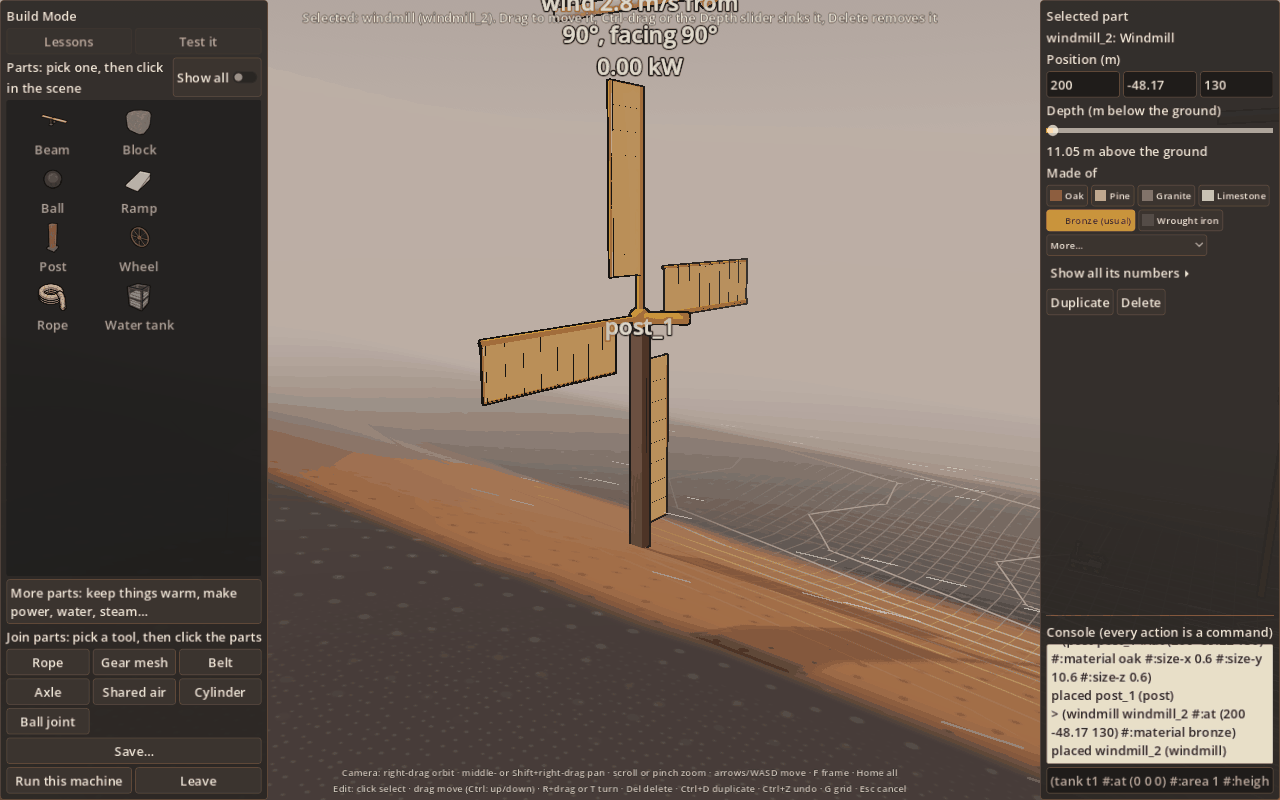
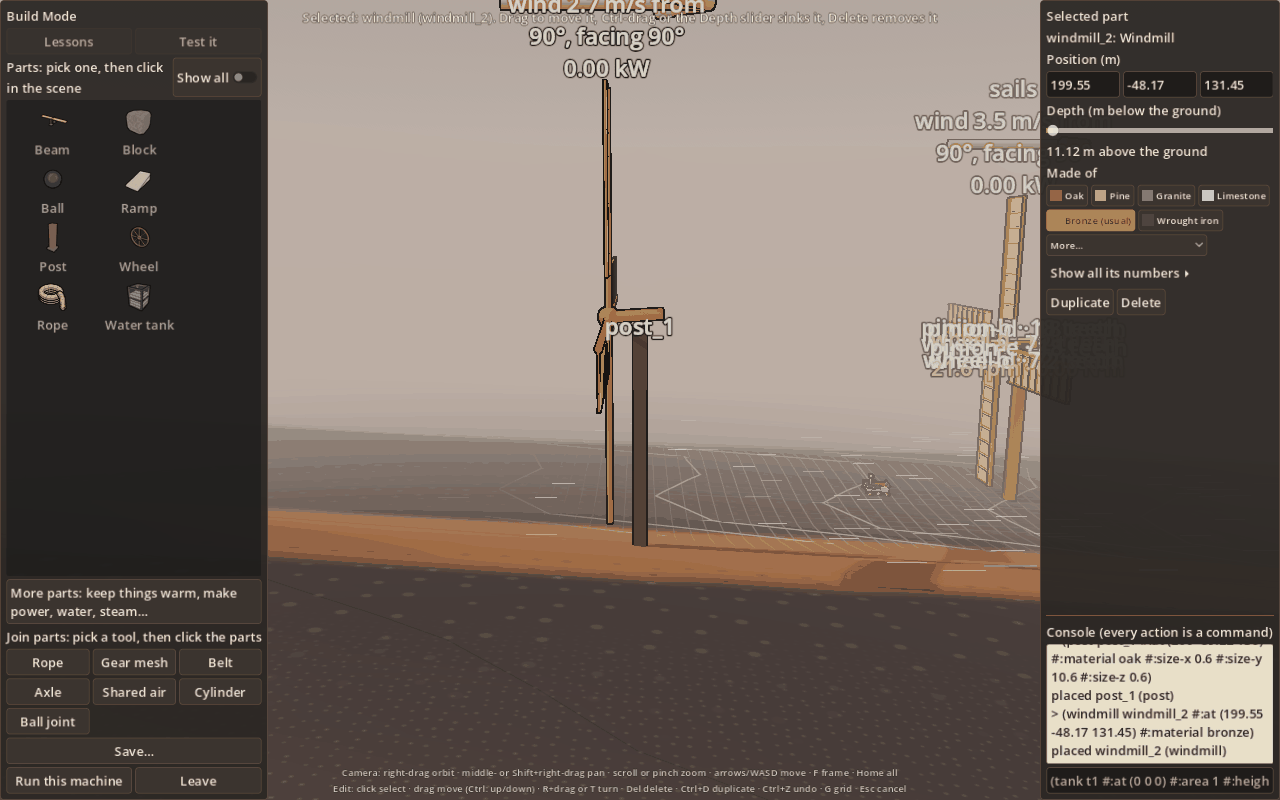
Building phase 1: the windmill on a post stands as the route's does, the post under its gear train 1.45 m behind the sails and 0.45 m aside (from the four 72:18 m5 stages), hub at the top + 0.45; the log says how far the sails' disc clears the post (1.03 m); Alt held while placing turns the snap off

diff --git a/game/scripts/BuildMode.cs b/game/scripts/BuildMode.cs
@@ -302,13 +302,13 @@ public partial class BuildMode : Node3D
                 _paletteDrag = true;
                 break;
             case InputEventMouseMotion motion when _paletteDrag && !_paletteList.GetGlobalRect().HasPoint(motion.Position):
-                MoveGhost(motion.Position);
+                MoveGhost(motion.Position, motion.AltPressed);
                 break;
             case InputEventMouseButton { ButtonIndex: MouseButton.Left, Pressed: false } up when _paletteDrag:
                 _paletteDrag = false;
                 if (_placingPaletteId is { } id && !OverPanel(up.Position))
                 {
-                    MoveGhost(up.Position);
+                    MoveGhost(up.Position, up.AltPressed);
                     PlaceGhost(id, up.ShiftPressed);
                     // not marked handled: the list took the press, so it must see the release too,
                     // or the GUI keeps sending it every mouse event as if the button were still down
@@ -423,11 +423,11 @@ public partial class BuildMode : Node3D
                 return ScriptedInput.Step.Next;
             case "wait-test":   // wait until no test is running or about to run (the lesson presses Test itself)
                 return Testing || _lessonAutoTestIn is not null ? ScriptedInput.Step.Again : ScriptedInput.Step.Next;
-            case "click-at":   // "click-at X Y Z": a click wherever that world point is drawn
-                ClickAt(ScriptPoint(w, 1));
+            case "click-at":   // "click-at X Y Z [alt]": a click wherever that world point is drawn (alt: Alt held, the snap off)
+                ClickAt(ScriptPoint(w, 1), alt: w.Length > 4 && w[4] == "alt");
                 return ScriptedInput.Step.Next;
-            case "hover-at":   // "hover-at X Y Z": the mouse moved to wherever that world point is drawn, no click (a placing ghost follows it)
-                _inputScript!.Mouse(GetViewport().GetScreenTransform() * _camera.UnprojectPosition(ScriptPoint(w, 1)));
+            case "hover-at":   // "hover-at X Y Z [alt]": the mouse moved to wherever that world point is drawn, no click (a placing ghost follows it)
+                _inputScript!.Mouse(GetViewport().GetScreenTransform() * _camera.UnprojectPosition(ScriptPoint(w, 1)), alt: w.Length > 4 && w[4] == "alt");
                 return ScriptedInput.Step.Next;
             case "palette-drag":   // "palette-drag ID X Y": press on the entry in the list, drag it out over the scene, let go at X Y
             {
@@ -505,14 +505,14 @@ public partial class BuildMode : Node3D
     }
 
     /// <summary>A scripted click on whatever is drawn at <paramref name="world"/>.</summary>
-    private void ClickAt(Vector3 world)
+    private void ClickAt(Vector3 world, bool alt = false)
     {
         // injected events are in window pixels; the camera projects to the
         // 3D viewport's, which the window's content scale stretches
         var at = GetViewport().GetScreenTransform() * _camera.UnprojectPosition(world);
-        _inputScript!.Mouse(at);
-        _inputScript.Mouse(at, MouseButton.Left, true);
-        _inputScript.Mouse(at, MouseButton.Left, false);
+        _inputScript!.Mouse(at, alt: alt);
+        _inputScript.Mouse(at, MouseButton.Left, true, alt: alt);
+        _inputScript.Mouse(at, MouseButton.Left, false, alt: alt);
     }
 
     // ------------------------------------------------------------------ UI
@@ -1332,7 +1332,7 @@ public partial class BuildMode : Node3D
             _orbit.Pan(mm.Relative);
             return;
         }
-        if (_placingPaletteId is not null) { MoveGhost(mm.Position); return; }
+        if (_placingPaletteId is not null) { MoveGhost(mm.Position, mm.AltPressed); return; }
         var hoverPort = PickPort(mm.Position);
         foreach (var p in _ports) p.Node.Scale = Vector3.One * (hoverPort is { } h && h.Part == p.Part && h.Port == p.Port ? 1.8f : 1f);
         if (_connectFrom is not null)
@@ -1866,18 +1866,19 @@ public partial class BuildMode : Node3D
         return null;
     }
 
-    private void MoveGhost(Vector2 screen)
+    private void MoveGhost(Vector2 screen, bool free = false)
     {
         if (_ghost is null) return;
         _ghostOnPost = null;
-        if (_placingKey == "windmill" && PostUnder(screen) is { } post)
+        if (_placingKey == "windmill" && !free && PostUnder(screen) is { } post)
         {
-            // the sails' ghost on a post (building plan, phase 1): its hub straight over the post's middle, the nave resting on the top. The
-            // grid's snap is skipped (this is the snap). The post holds nothing in the sim: the mill is not joined to it.
+            // the sails' ghost on a post (building plan, phase 1): the post under the windshaft behind the sails, where the route's train
+            // goes (HubOnPost), the hub at the post's top plus the nave's radius. The grid's snap is skipped (this is the snap); Alt places
+            // it freely. The post holds nothing in the sim: the mill is not joined to it.
             _ghostOnPost = post.Id;
             _ghost.Visible = true;
             _ghost.Position = HubOnPost(post);
-            _status.Text = $"Windmill on {post.Id}'s top: its hub {F(MachineView.WindmillHubRadius)} m above it (the nave rests on the post). Click to put it there, Esc cancels";
+            _status.Text = $"Windmill on {post.Id}: the post under its windshaft, {F(MillTrainSetback)} m behind the sails, the hub {F(MachineView.WindmillHubRadius)} m above its top. Click to put it there; Alt places it freely, Esc cancels";
             return;
         }
         if (!SurfacePoint(screen, null, out var p)) { _ghost.Visible = false; return; }
@@ -1894,15 +1895,60 @@ public partial class BuildMode : Node3D
         return nearest.Name is { } id && _session.Document.Parts.TryGetValue(id, out var part) && part.Kind == "post" ? part : null;
     }
 
-    /// <summary>Where a windmill's hub goes on a post: over its middle, the post's top (its #:at is its foot) plus the nave's radius.</summary>
-    private static Vector3 HubOnPost(PartSpec post) =>
-        new((float)post.At.X, (float)(post.At.Y + post.Number("size-y", 1)) + MachineView.WindmillHubRadius, (float)post.At.Z);
+    /// <summary>
+    /// Where a windmill's gear train goes, seen from its hub with the sails facing +z (the route's, solve.steps): four 72:18 stages of
+    /// module-5 gears, each pinion beside its wheel by m (72 + 18) / 2 = 0.225 m, so the train runs 4 x 0.225 = 0.9 m across (+x) and its
+    /// middle is 0.45 m to the side; the first wheel 1.3 m back down the windshaft, each stage 0.1 m further, so the train's middle is
+    /// 1.3 + 3 x 0.1 / 2 = 1.45 m behind the sails. A post set there carries the train and stands clear of the sails' disc.
+    /// </summary>
+    private const float MillTrainSide = 4 * 0.005f * (72 + 18) / 2 / 2, MillTrainSetback = 1.3f + 3 * 0.1f / 2;
+
+    /// <summary>
+    /// Where a windmill's hub goes on a post: the post under the middle of its train (<see cref="MillTrainSide"/>, <see cref="MillTrainSetback"/>),
+    /// turned with the sails' #:facing-deg (azimuth from +x toward +z, 90 = +z, #193), the hub at the post's top (its #:at is its foot) plus
+    /// the nave's radius. The route's post is at (0.45 0 -1.45) from its hub: the same.
+    /// </summary>
+    private Vector3 HubOnPost(PartSpec post)
+    {
+        var yaw = new Basis(Vector3.Up, Mathf.DegToRad(90 - GhostFacingDeg()));
+        var postFromHub = yaw * new Vector3(MillTrainSide, 0, -MillTrainSetback);
+        return new Vector3((float)post.At.X - postFromHub.X, (float)(post.At.Y + post.Number("size-y", 1)) + MachineView.WindmillHubRadius, (float)post.At.Z - postFromHub.Z);
+    }
+
+    /// <summary>The facing a placed windmill starts with (its template's #:facing-deg, 90 = +z).</summary>
+    private static float GhostFacingDeg() => (float)PartTemplates.Create("windmill", "ghost", new Vec3(0, 0, 0), "oak").Number("facing-deg", 90);
+
+    /// <summary>
+    /// How far the sails' disc (radius #:radius about the hub, in the plane across the windshaft; its stocks and cloth within 0.12 m of
+    /// that plane) stands clear of a post's box, along the windshaft: negative where the turning sails would cross the post.
+    /// </summary>
+    private static float SailsClearOfPost(Vector3 hub, PartSpec post, float facingDeg, float radius)
+    {
+        var f = new Basis(Vector3.Up, Mathf.DegToRad(90 - facingDeg)) * Vector3.Back;   // the way the sails face (+z at 90)
+        var centre = new Vector3((float)post.At.X, (float)(post.At.Y + post.Number("size-y", 1) / 2), (float)post.At.Z);
+        var yaw = new Basis(Vector3.Up, Mathf.DegToRad((float)post.Number("heading-deg", 0)));
+        var half = new Vector3((float)post.Number("size-x", 0.2) / 2, (float)post.Number("size-y", 1) / 2, (float)post.Number("size-z", 0.2) / 2);
+        float reach = Mathf.Abs((yaw * Vector3.Right).Dot(f)) * half.X + Mathf.Abs((yaw * Vector3.Back).Dot(f)) * half.Z;   // the box's half depth along f
+        float along = (hub - centre).Dot(f);
+        float gap = Mathf.Abs(along) - reach - 0.12f;
+        if (gap > 0) return gap;
+        // the plane cuts the box: the disc reaches it unless the box lies wholly beyond the radius
+        var nearest = new Vector3(Mathf.Clamp(hub.X, centre.X - half.X - half.Z, centre.X + half.X + half.Z), Mathf.Clamp(hub.Y, centre.Y - half.Y, centre.Y + half.Y), Mathf.Clamp(hub.Z, centre.Z - half.X - half.Z, centre.Z + half.X + half.Z));
+        return nearest.DistanceTo(hub) > radius ? nearest.DistanceTo(hub) - radius : gap;
+    }
 
     private void PlaceGhost(string paletteId, bool keepPlacing)
     {
         if (_ghost is not { Visible: true }) return;
         if (_ghostOnPost is { } onPost && _session.Document.Parts.TryGetValue(onPost, out var post))
-            GD.Print($"[BuildMode] the windmill's hub on {onPost}'s top: post top {F(post.At.Y + post.Number("size-y", 1))} + nave radius {F(MachineView.WindmillHubRadius)} = {F(_ghost.Position.Y)}, over its middle ({F(post.At.X)} {F(post.At.Z)})");
+        {
+            var hub = _ghost.Position;
+            var rel = hub - new Vector3((float)post.At.X, (float)post.At.Y, (float)post.At.Z);
+            float clear = SailsClearOfPost(hub, post, GhostFacingDeg(), (float)PartTemplates.Create("windmill", "ghost", new Vec3(0, 0, 0), "oak").Number("radius", 10));
+            GD.Print($"[BuildMode] the windmill's hub on {onPost}'s top: post top {F(post.At.Y + post.Number("size-y", 1))} + nave radius {F(MachineView.WindmillHubRadius)} = {F(hub.Y)}; "
+                + $"hub - post foot = ({F(rel.X)} {F(rel.Y)} {F(rel.Z)}), the post under the train {F(MillTrainSetback)} m behind the sails and {F(MillTrainSide)} m aside; "
+                + (clear > 0 ? $"the sails' disc clears the post by {F(clear)} m" : $"the sails' disc crosses the post ({F(clear)} m)"));
+        }
         var item = _palette.First(p => p.Id == paletteId);
         string id = $"{paletteId.Replace('-', '_')}_{_serial++}";
         while (_session.Document.Parts.ContainsKey(id)) id = $"{paletteId.Replace('-', '_')}_{_serial++}";

diff --git a/game/scripts/ScriptedInput.cs b/game/scripts/ScriptedInput.cs
@@ -209,16 +209,16 @@ public sealed class ScriptedInput(string tag, string script, Node owner, Func<Or
     }
 
     /// <summary>Moves the mouse to <paramref name="at"/>, then presses or releases <paramref name="button"/> there if one is given.</summary>
-    public void Mouse(Vector2 at, MouseButton button = MouseButton.None, bool? pressed = null, bool shift = false)
+    public void Mouse(Vector2 at, MouseButton button = MouseButton.None, bool? pressed = null, bool shift = false, bool alt = false)
     {
         if (at != _lastMouse)
         {
             var mask = pressed is null && button != MouseButton.None ? (MouseButtonMask)(1 << ((int)button - 1)) : 0;
-            Input.ParseInputEvent(new InputEventMouseMotion { Position = at, GlobalPosition = at, Relative = at - _lastMouse, ShiftPressed = shift, ButtonMask = mask });
+            Input.ParseInputEvent(new InputEventMouseMotion { Position = at, GlobalPosition = at, Relative = at - _lastMouse, ShiftPressed = shift, AltPressed = alt, ButtonMask = mask });
             _lastMouse = at;
         }
         if (button != MouseButton.None && pressed is { } p)
-            Input.ParseInputEvent(new InputEventMouseButton { Position = at, GlobalPosition = at, ButtonIndex = button, Pressed = p, ShiftPressed = shift });
+            Input.ParseInputEvent(new InputEventMouseButton { Position = at, GlobalPosition = at, ButtonIndex = button, Pressed = p, ShiftPressed = shift, AltPressed = alt });
     }
 
     private static string F(double v) => v.ToString("0.###", System.Globalization.CultureInfo.InvariantCulture);

diff --git a/game/scripts/BuildMode.Palette.cs b/game/scripts/BuildMode.Palette.cs
@@ -438,7 +438,9 @@ public partial class BuildMode
         _cardTitle.Text = $"What is this? {e.Label}";
         _cardSays.Text = e.Says;
         _cardJoins.Text = e.Joins;
-        _cardJoins.Visible = e.Joins != "";
+        if (key == "windmill")   // the snap onto a post (building plan, phase 1), and how to get out of it
+            _cardJoins.Text = (e.Joins + " Over a post it sits on the post's top, the post under its gears behind the sails; hold Alt to place it freely.").Trim();
+        _cardJoins.Visible = _cardJoins.Text != "";
         _cardPicture.Texture = _thumbs.GetValueOrDefault(key) ?? (key == "rope" ? RopeIcon() : null);
         _cardPicture.Visible = _cardPicture.Texture is not null;
         bool placing = key == _placingKey && e.Join is null;

diff --git a/docs/conventions.md b/docs/conventions.md
@@ -66,7 +66,7 @@ Environment switches (all `HEROIC_*`):
 | `GOALS_REPORT=1` | print the bank crate's cover and the goals earned every 2 s of the scene's clock |
 | `SLEEP=<wake>` | sleep at load until the machine's named wake. A script step does it later: `sleep WAKE [live\|paused]` or `sleep until T.F above\|below V [limit S] [live\|paused]` (#207) |
 | `INPUT` steps `join A B`, `joinclick A [N|list]`, `joinrightclick A`, `joinlist N`, `joinbutton`, `fps N` (#218, #224, #225) | `join LABEL.PART[.PORT] LABEL.PART[.PORT]` joins two placed machines' parts as the Join machines gesture does, anywhere in a script (after a build, with the parts tens of metres apart): the button's `SetJoining`, the two picks a click on each part makes (`Main.Pick`, the same rules and the same `[links] joined:` line), then joining off. A bad name, a part with no drawing, a malformed end or a join the rules refuse prints `join: ...` and ends the run with **exit 1**, even if a `quit` follows. `joinclick A` is one real mouse click on a part where the camera draws it, with joining on (it fails if the part is off screen). The pick rule is the join tool's (#225): nested pick boxes, the smaller wins (the gears inside the sails' box, the bank inside its crate's); boxes that only overlap, nearest first; a second click on the same spot or a right-click offers a list of the parts under it (`pick list at ...` in the log). `joinclick A N` clicks A, clicks again and takes item N (from 1) of that list; `joinclick A list` clicks A and, if another part was picked, clicks again and takes A from the list (fails if A is not there); `joinrightclick A` offers the list by a right-click and `joinlist N` takes item N of the list open. `fps N` caps the frame rate (`wait` counts frames and `hold` seconds, so a drive is repeatable at one rate only); `joinbutton` prints the button's label (`Join machines` in the rover game, `(J)` elsewhere). `wheel X Y N` (the mouse wheel) and `type TEXT` (into a focused field) are there for the same gui routes. `tools/route-gui.sh` plays the route with them |
-| `INPUT` steps `build WORD ...` (building plan, phase 0; `Main.Build.cs`, `BuildMode.ScriptStep`) | In a world, `build new [X Z]`, `build edit LABEL`, `build done`, `build list` and `build (COMMAND ...)` (every `#:at (x y z)` taken from the build's spot) are the world's own. Any other `build WORD ...` is one of build mode's own scripted steps, the words `EDITOR_INPUT` takes, run in the world's script and its director step files: `build palette NAME` (an entry, `gear`, or one size, `involute-gear-m5-72`, as a click in the list), `build palette-drag NAME X Y`, `build click-part ID` (a real click where the camera draws the part's middle), `build click-port PART.PORT`, `build click-at X Y Z` and `build drag-to ID X Y Z` (world points taken from the build's spot, as `#:at` is), `build select ID`, `build link KIND` (rope, mesh, belt, arbor, sealedair, cylinder, joint: a join tool, as its button), `build log` (a `[BuildMode] state: ... selected=.. placing=.. link=..` line), `build candidates`, `build palette-list`, `build show-all on\|off`, `build cmd ...` (a console command as typed: no origin), `build save PATH`, `build test`, `build picklist N`, `build preset NAME SIZE` (a real click on the button of the placing part's card nearest SIZE: a post's `1 m`, `3 m`, `10.6 m`, the last the route's windmill tower, 0.6 m square; `build preset post 10` takes 10.6), `build hover-at X Y Z` (the mouse moved there, no click: a placing ghost follows). A word build mode doesn't know prints `[build] unknown build word: W`. Build mode's click picks as the world's join tool does (#225, `PickBoxes.Choose`): nested boxes, the smaller wins (a gear inside the sails' box), the log saying `X lies inside Y's box and is the smaller: it takes the click`; a second click on the same spot in the same view offers the parts under it, nearest first (`pick list at ...`), and `build picklist N` takes item N (from 1). The free ghost still rests on the nearest box, except a windmill's over a post (building plan, phase 1): its hub goes over the post's middle, the post's top plus the nave's radius (`MachineView.WindmillHubRadius`, 0.45 m: 11.05 m over a 10.6 m post's foot), logged as `the windmill's hub on POST's top: ...`; the post holds nothing in the sim. `racket/heroic/tests/build-script-test.rkt` |
+| `INPUT` steps `build WORD ...` (building plan, phase 0; `Main.Build.cs`, `BuildMode.ScriptStep`) | In a world, `build new [X Z]`, `build edit LABEL`, `build done`, `build list` and `build (COMMAND ...)` (every `#:at (x y z)` taken from the build's spot) are the world's own. Any other `build WORD ...` is one of build mode's own scripted steps, the words `EDITOR_INPUT` takes, run in the world's script and its director step files: `build palette NAME` (an entry, `gear`, or one size, `involute-gear-m5-72`, as a click in the list), `build palette-drag NAME X Y`, `build click-part ID` (a real click where the camera draws the part's middle), `build click-port PART.PORT`, `build click-at X Y Z` and `build drag-to ID X Y Z` (world points taken from the build's spot, as `#:at` is), `build select ID`, `build link KIND` (rope, mesh, belt, arbor, sealedair, cylinder, joint: a join tool, as its button), `build log` (a `[BuildMode] state: ... selected=.. placing=.. link=..` line), `build candidates`, `build palette-list`, `build show-all on\|off`, `build cmd ...` (a console command as typed: no origin), `build save PATH`, `build test`, `build picklist N`, `build preset NAME SIZE` (a real click on the button of the placing part's card nearest SIZE: a post's `1 m`, `3 m`, `10.6 m`, the last the route's windmill tower, 0.6 m square; `build preset post 10` takes 10.6), `build hover-at X Y Z [alt]` (the mouse moved there, no click: a placing ghost follows). A word build mode doesn't know prints `[build] unknown build word: W`. Build mode's click picks as the world's join tool does (#225, `PickBoxes.Choose`): nested boxes, the smaller wins (a gear inside the sails' box), the log saying `X lies inside Y's box and is the smaller: it takes the click`; a second click on the same spot in the same view offers the parts under it, nearest first (`pick list at ...`), and `build picklist N` takes item N (from 1). The free ghost still rests on the nearest box, except a windmill's over a post (building plan, phase 1): the post goes under its gear train, as the route builds it, 1.45 m behind the sails and 0.45 m aside (turned with the sails' #:facing-deg), the hub at the post's top plus the nave's radius (`MachineView.WindmillHubRadius`, 0.45 m): hub - post foot = (-0.45, 11.05, 1.45) for a 10.6 m post, logged as `the windmill's hub on POST's top: ... the sails' disc clears the post by D m`; Alt held while placing turns the snap off (Shift still keeps placing; `build click-at X Y Z alt`, `build hover-at X Y Z alt`); the post holds nothing in the sim. `racket/heroic/tests/build-script-test.rkt` |
 | `SLEEP_PHYSICS=1/0` | a sleep keeps the physics engine running (default for Jolt-driven machines under 7,200 s) or pauses it |
 | `MARKERS=1/0`, `INPUT` steps `marker ..`, `markers on\|off`, `map ..` (#235-#239) | the cargo's rough areas (a disc of 6 m (the owner's choice) round each crate, its centre offset 1 to 2 m by a hash of the crate's label, no depth: owner decision on #240; `RoughArea` in `src/HeroicInventions.Sim/Game/Markers.cs`) in the world and on the map, and the bearing line in the Driving section: on by default (View ▸ Cargo Markers, remembered in `settings.cfg`, section `[markers]`; an older `markers.cfg` value is read once, copied across and left alone); `HEROIC_MARKERS` overrides, a scripted run shows them. Keys: **M** the navigation map (north up = -z, pan, wheel zoom, Home recentres, Esc closes; the game runs on), **T** chooses the next cargo area for the bearing line. The map draws each soil in the ground's own colour and its left panel is the ground key (#243: only the map's soils; the swatches are `TerrainView.SoilColour`, one rule `SoilLook.Drawn`); the Driving section has a `ground here: ...` line, printed by the step `rover ground`, and `map print` prints each key entry (`[map] key SOIL: swatch ground map name note`). `marker` prints each area (centre, radius, the crate's place worked back from it, offset) and the chosen one's distance, bearing, relative angle; `marker place X Z` puts an exact test marker and chooses it; `marker next`, `marker choose ID`, `marker clear`; `map open\|close\|print\|follow\|zoom MPP\|centre X Z [MPP]` (`map print` lists each marker's world place, its map place and the place read back). `racket/heroic/tests/markers-test.rkt` |
 | `SAVES_DIR=<dir>` | where saves go instead of the player's folder; a scripted run (`QUIT_AFTER_SIM_SECONDS`, `INPUT`) with none writes no autosave and no rover log. The rover log (#217) is `<scene>.rover-log.txt` there (or in `user://saves` for a player), one line appended as it is made. `godothost.rkt` sets a temporary one |
